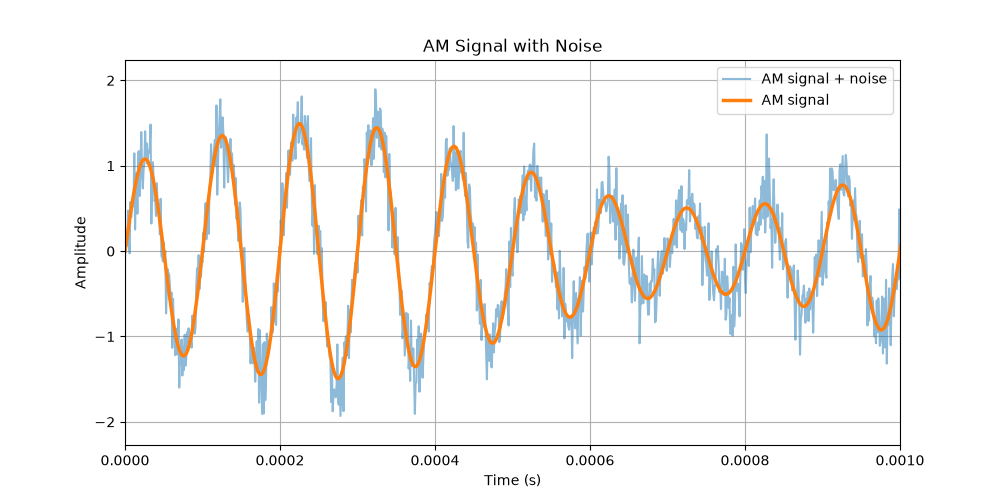
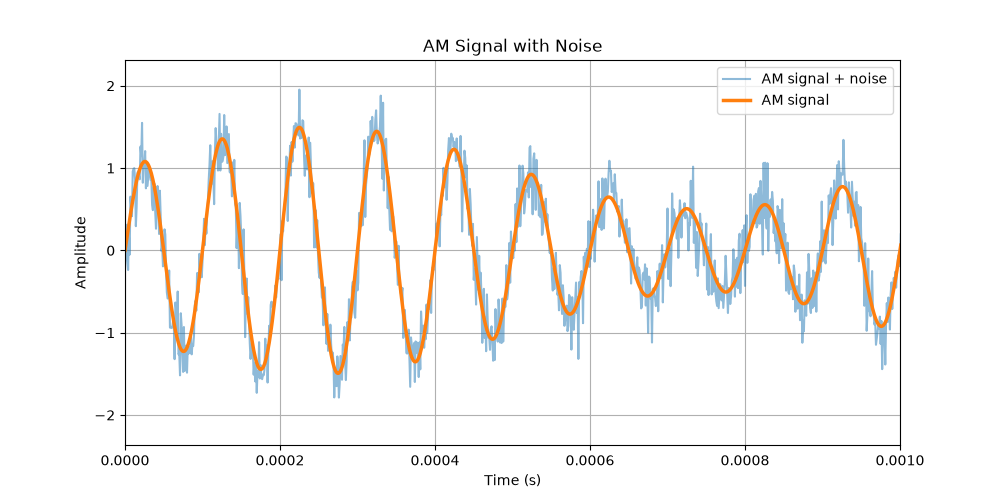
Fix FFT magnitude scaling to single-side

Changed region(s): [[0.093, 0.15, 0.899, 0.84], [0.093, 0.81, 0.124, 0.87]]

diff --git a/src/main.py b/src/main.py
@@ -17,6 +17,7 @@ carrier = np.sin(2*np.pi*carrier_frequency*t)
 
 am_signal = (1+modulation_index*message)*carrier
 
+
 plt.figure(figsize=(10, 8))
 
 
@@ -44,9 +45,13 @@ plt.grid()
 plt.savefig("results/am_signals.png")
 plt.show()
 
+
+
 frequencies = np.fft.fftfreq(len(am_signal), 1/sampling_rate)
 fft = np.fft.fft(am_signal)
-magnitude = np.abs(fft)/len(am_signal)
+magnitude = 2*(np.abs(fft)/len(am_signal))
+
+
 
 plt.xlim(0, 20000)
 plt.plot(frequencies, magnitude)
@@ -56,6 +61,8 @@ plt.title("AM Signal spectrum")
 plt.grid()
 plt.savefig("results/am_signals_fft.png")
 plt.show()
+
+
 
 
 snr_db = 10
@@ -85,4 +92,21 @@ plt.title("AM Signal with Noise")
 plt.legend()
 plt.grid()
 plt.savefig("results/am_signals_noise.png")
+plt.show()
+
+
+
+fft_noise = np.fft.fft(noisy_signal)
+magnitude = 2*(np.abs(fft_noise)/len(noisy_signal))
+
+plt.plot(frequencies, magnitude)
+
+
+plt.xlim(0, 20000)
+plt.xlabel("Frequency (Hz)")
+plt.ylabel("Magnitude")
+plt.title("Noisy AM Signal Spectrum")
+plt.grid()
+
+plt.savefig("results/am_signals_noise_fft.png")
 plt.show()
